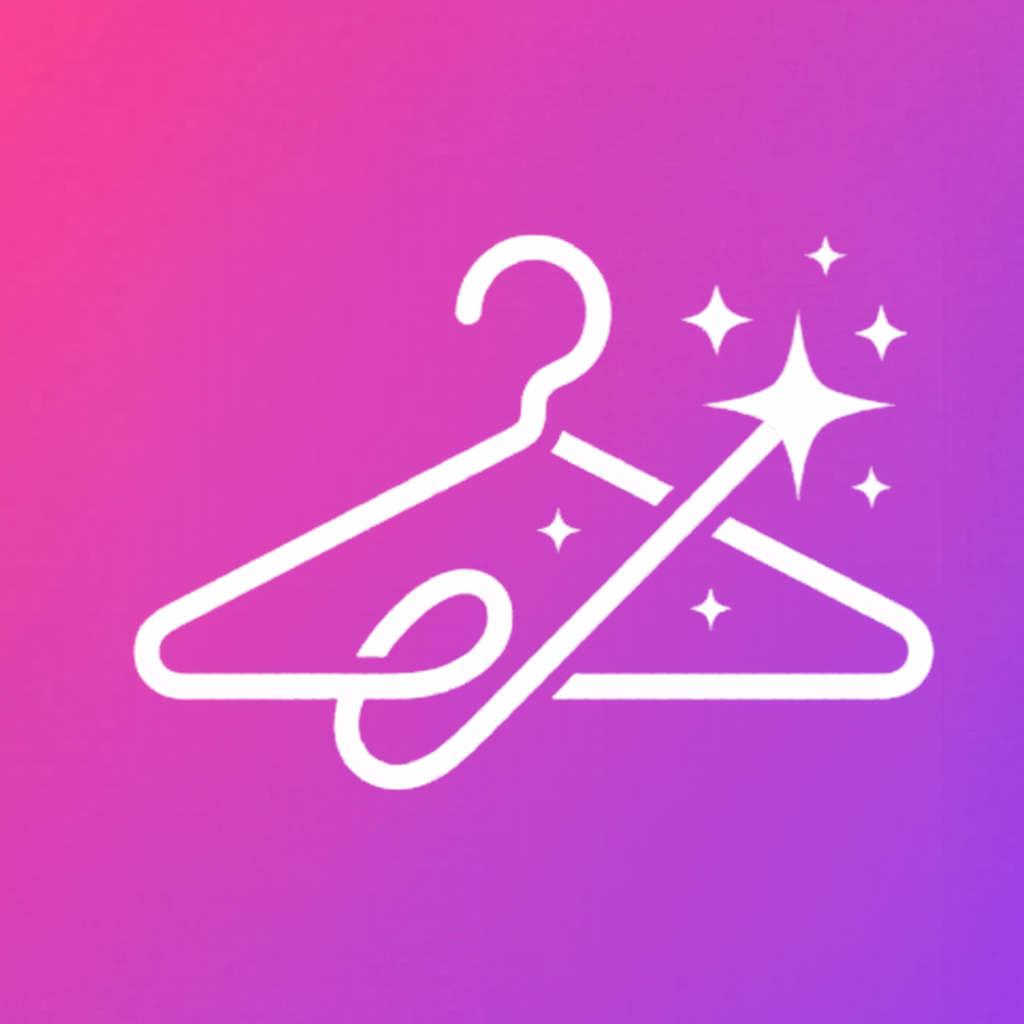
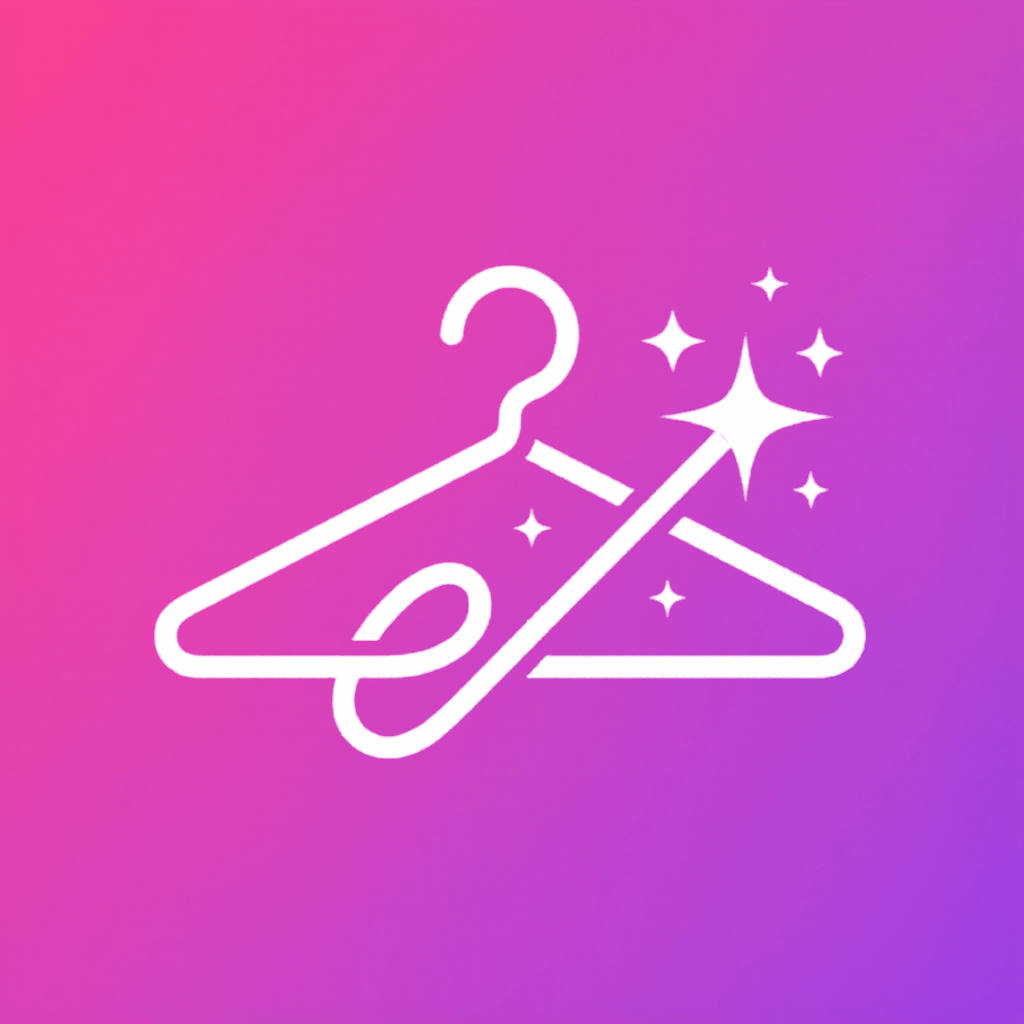
style(mobile): brand-aligned splash + animated theme toggle + success haptic
- splash backgroundColor #16131a → #D946EF (matches Colors.primary)
- AppHeader: theme-toggle icon spins 180° + bounces on press
- GenerationLoadingScreen: success haptic when generation completes
- Refresh icon, adaptive-icon, notification-icon, splash-icon assets
- Bumps hitSlop on header buttons to 12 for accessibility

diff --git a/crialook-app/components/AppHeader.tsx b/crialook-app/components/AppHeader.tsx
@@ -20,7 +20,7 @@ import { useRouter } from 'expo-router';
 import * as Haptics from 'expo-haptics';
 import FontAwesome from '@expo/vector-icons/FontAwesome';
 import { useSafeAreaInsets, type EdgeInsets } from 'react-native-safe-area-context';
-import Animated, { FadeIn } from 'react-native-reanimated';
+import Animated, { FadeIn, useAnimatedStyle, useSharedValue, withSpring, withSequence } from 'react-native-reanimated';
 
 import Colors from '@/constants/Colors';
 import { useColorScheme } from '@/components/useColorScheme';
@@ -140,10 +140,28 @@ export function AppHeader() {
   const router = useRouter();
   const credits = useCredits();
 
+  const rotation = useSharedValue(0);
+  const scale = useSharedValue(1);
+
   const onToggleTheme = useCallback(() => {
     Haptics.selectionAsync();
+    
+    // Design Spell: Magical theme morph icon spin + bounce
+    rotation.value = withSpring(rotation.value + 180, { mass: 0.5, damping: 12 });
+    scale.value = withSequence(
+      withSpring(0.7, { mass: 0.2, damping: 10 }),
+      withSpring(1, { mass: 0.5, damping: 12 })
+    );
+
     setTheme(nextThemeMode(mode, scheme));
   }, [mode, scheme, setTheme]);
+
+  const animatedIconStyle = useAnimatedStyle(() => ({
+    transform: [
+      { rotate: `${rotation.value}deg` },
+      { scale: scale.value }
+    ]
+  }));
 
   const onPressCredits = useCallback(() => {
     Haptics.selectionAsync();
@@ -202,14 +220,16 @@ export function AppHeader() {
                   ? t('header.toggleThemeDark')
                   : t('header.toggleThemeSystem')
             }
-            hitSlop={8}
+            hitSlop={12}
             style={({ pressed }) => [
               styles.iconBtn,
               { backgroundColor: colors.surface2 },
               pressed && { opacity: 0.7 },
             ]}
           >
-            <Text style={styles.iconChar}>{themeModeIcon(mode, scheme)}</Text>
+            <Animated.Text style={[styles.iconChar, animatedIconStyle]}>
+              {themeModeIcon(mode, scheme)}
+            </Animated.Text>
           </Pressable>
 
           {showCredits && (
@@ -217,7 +237,7 @@ export function AppHeader() {
               onPress={onPressCredits}
               accessibilityRole="button"
               accessibilityLabel={t('header.creditsAccessibility', { used: credits.used, limit: credits.limit })}
-              hitSlop={6}
+              hitSlop={12}
               style={({ pressed }) => [
                 styles.creditsChip,
                 { backgroundColor: pill.bg },

diff --git a/crialook-app/components/GenerationLoadingScreen.tsx b/crialook-app/components/GenerationLoadingScreen.tsx
@@ -42,6 +42,7 @@ import Animated, {
 } from 'react-native-reanimated';
 import { useFocusEffect } from '@react-navigation/native';
 import { useKeepAwake } from 'expo-keep-awake';
+import * as Haptics from 'expo-haptics';
 import { Button } from '@/components/ui';
 import Colors from '@/constants/Colors';
 import { useColorScheme } from '@/components/useColorScheme';
@@ -363,6 +364,9 @@ export function GenerationLoadingScreen({ isComplete, onViewResults }: Props) {
   // the CTA or any tab.
   useEffect(() => {
     setNavigationLocked(!isComplete);
+    if (isComplete) {
+      Haptics.notificationAsync(Haptics.NotificationFeedbackType.Success).catch(() => {});
+    }
     return () => setNavigationLocked(false);
   }, [isComplete]);
 
@@ -754,7 +758,7 @@ const styles = StyleSheet.create({
   },
   factHeader: { flexDirection: 'row', alignItems: 'center', gap: 8 },
   factEmoji: { fontSize: 18, lineHeight: 22 },
-  factCategory: { fontSize: 10, fontWeight: '800', letterSpacing: 0.6 },
+  factCategory: { fontSize: 10, fontWeight: '800', letterSpacing: 1.2 },
   pauseBtn: {
     color: 'rgba(255,255,255,0.5)',
     fontSize: 13,
@@ -798,6 +802,7 @@ const styles = StyleSheet.create({
     color: '#fff',
     fontSize: 26,
     fontWeight: '800',
+    letterSpacing: -0.8,
     textAlign: 'center',
     marginBottom: 4,
   },
